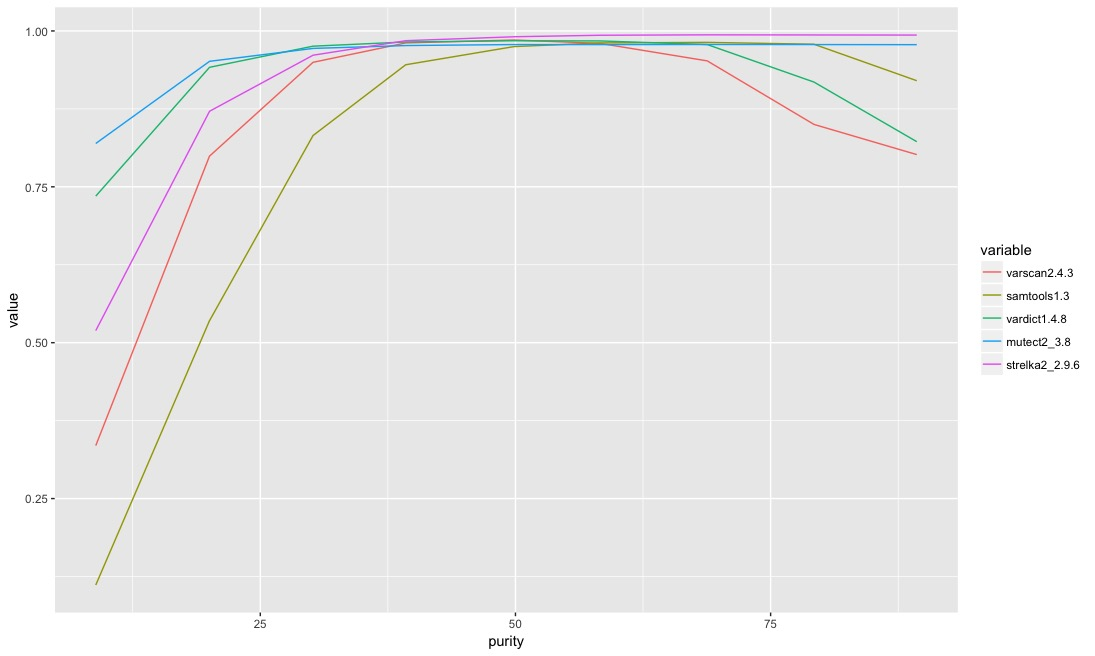
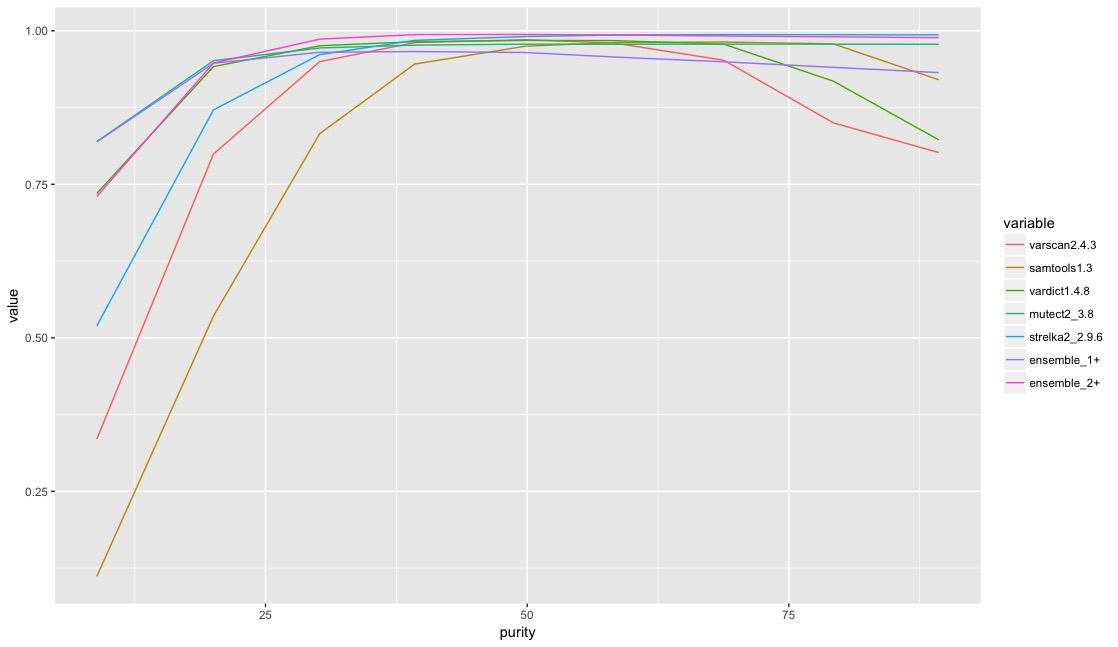
ensemble update

diff --git a/README.md b/README.md
@@ -266,7 +266,7 @@ Choices either chr 5 or chr9.  Favoring chr 9 due to GC content.
 
 ## Insilico purity sample SOP
 
-1. Extract 60x HG002 and 300x HG001 from GIAB for purity at 10 to 90%
+1. To produce insilico samples for purities ranging from 10% to 90%, reads were extracted from GIAB samples: Normal: 60x HG002 and Tumor: 300x HG001
 2. Extract chromosome 9 and subset number of reads based on purity using sambamba with a specific random seed for reproducibility 
 3. Sort and merge HG002 and HG001
 4. Trim, align, indel realignment, mark duplicates and qc metrcis on each 9 pairs
